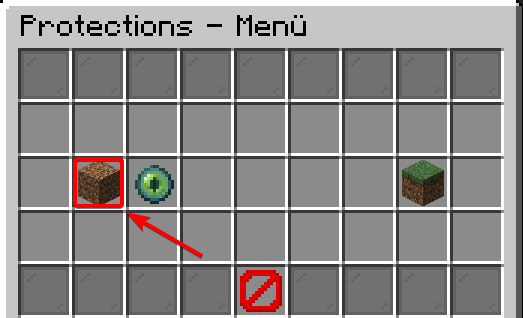
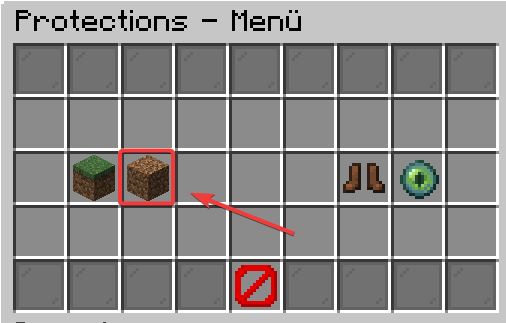
feat(docs): edited pot page, added toggle plotmessages doc

diff --git a/Writerside/topics/plot-other.md b/Writerside/topics/plot-other.md
@@ -1,7 +1,8 @@
 # Sonstiges
 
-## Sonstige Befehle
 
+<tabs>
+<tab title="Befehle">
 <deflist>
 <def title="Besitzer herausfinden">
 Um den Besitzer eines Grundstücks herauszufinden, nutze <code>/pwho</code> während du auf einem Grundstück stehst.
@@ -11,18 +12,42 @@ Solltest du auf einem fremden Grundstück feststecken, kannst du <code>/unstuck<
 <warning>Der Missbrauch dieses Befehls um zum Spawn zu gelangen wird als Exploiting gewertet und bestraft!</warning>
 </def>
 </deflist>
+</tab>
 
-## Berechnungen
+<tab title="Weiteres">
+<procedure title="Grundstücknachrichten">
+<p>
+Beim Betreten oder Verlassen eines Grundstückes bekommst du im Chat eine Nachricht.
+Diese Funktion lässt sich jedoch ein- oder ausschalten.
+</p>
+<step>
+<p>
+Führe hierzu den Befehl <code>/protect </code> im Chat aus.
+</p>
+</step>
+<step>
+Klicke anschließend auf die Lederschuhe.
+<img src="plot-toggle-plotmessage.png" alt="toggle plotmessage"/>
+</step>
+</procedure>
+</tab>
 
-### Grundstückspreis:
-
-````tex
+<tab title="Berechnung">
+<deflist>
+<def title="Berechnung des Grundstückes">
+<code-block lang ="tex">
 \begin{align*}
 p(x) &= \max\left(4, \left\lfloor -0.0016666666667 \times x + 12.3333333333 \right\rceil \right) \\
 x &= \text{Distanz zum Spawn in Blöcken}
 \end{align*}
-````
-Hierbei:
-- `p(x)` ist der berechnete Preis pro Block.
-- `x` ist die Distanz vom Grundstück zum Spawn, gemessen in Blöcken.
-- `⌊...⌉` bedeutet runden
+</code-block>
+Hierbei gilt:
+<ul>
+    <li> <code>p(x)</code> ist der berechnete Preis pro Block. </li>
+    <li> <code>x</code> ist die Distanz vom Grundstück zum Spawn, gemessen in Blöcken. </li>
+    <li> <code>⌊...⌉</code> bedeutet runden. </li>
+</ul>
+</def>
+</deflist>
+</tab>
+</tabs>
